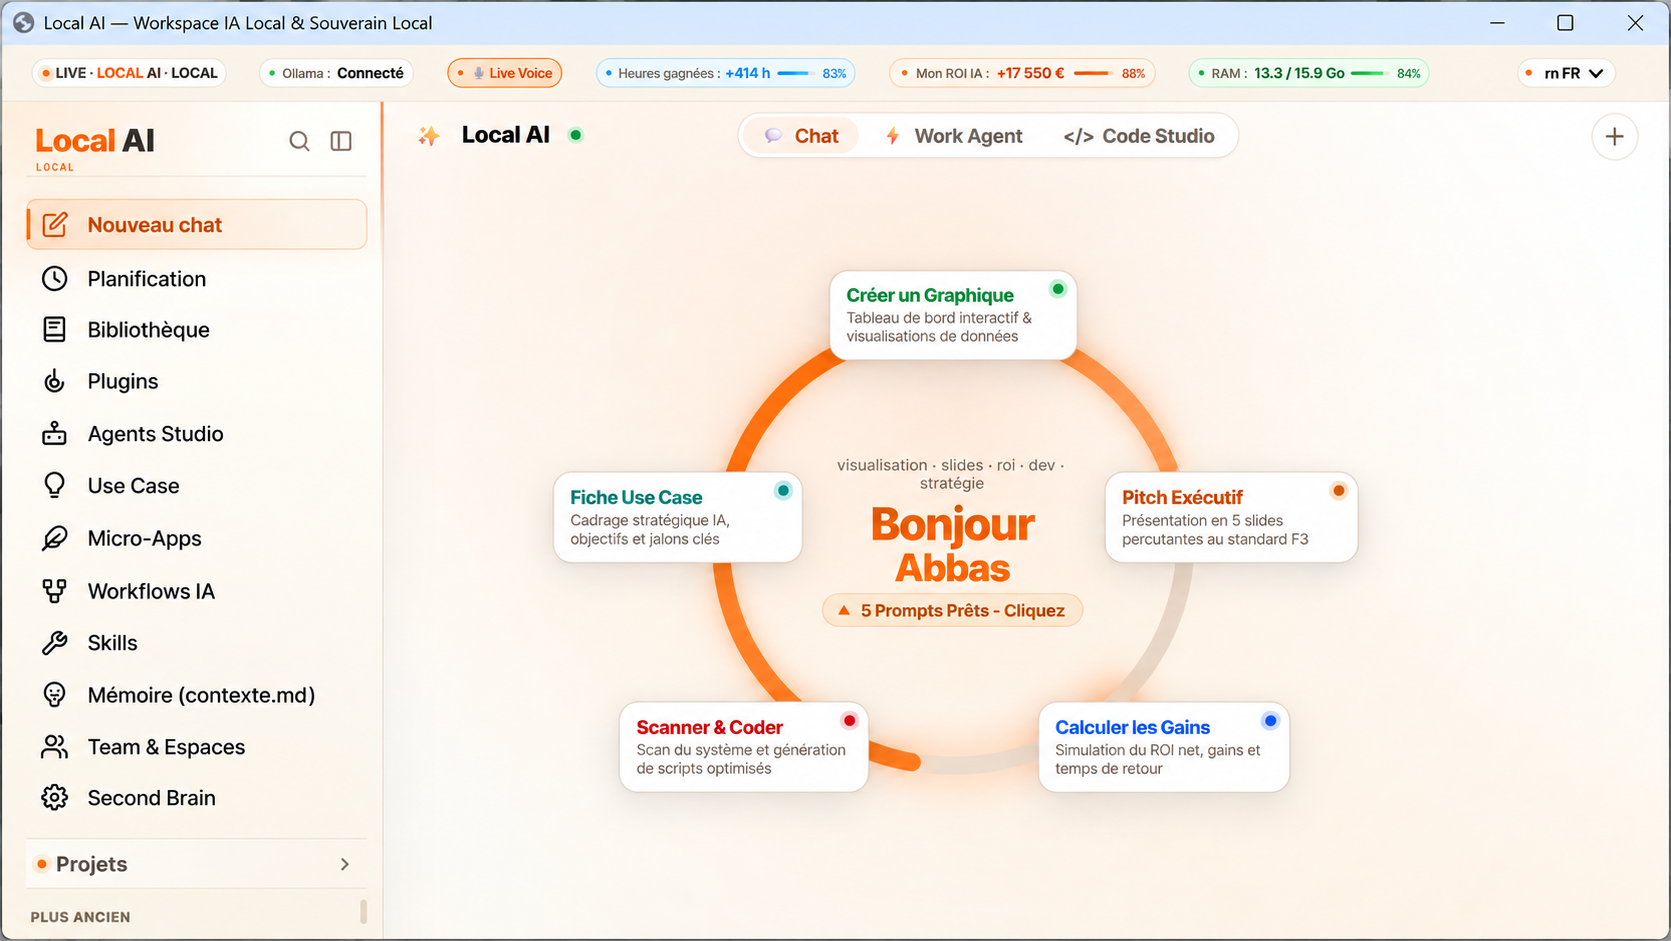
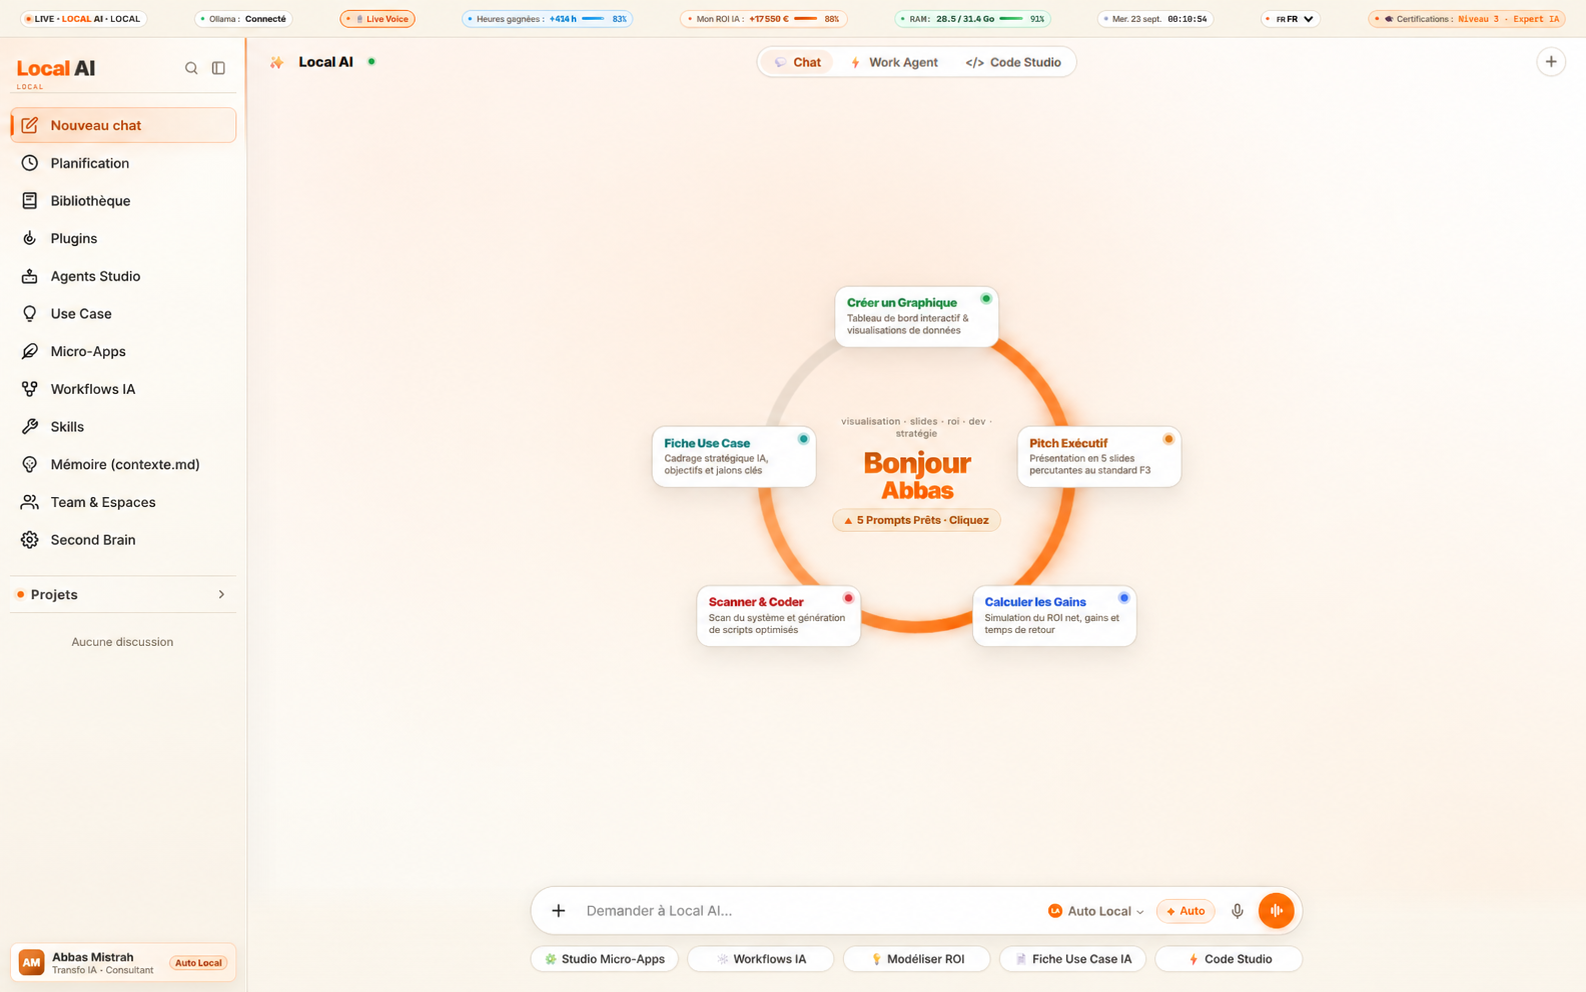
docs: show complete Local AI home composer

diff --git a/README.md b/README.md
@@ -7,7 +7,7 @@
 Local AI turns complex knowledge work into traceable outcomes. Conversations become editable deliverables, business needs become scored use cases, specialist agents become visible executions, and reusable knowledge stays available for the next decision.
 
 <p align="center">
-  <img src="docs/home-local-ai.png" alt="Local AI local-first agentic workspace" width="100%" />
+  <img src="docs/home-local-ai-complete.png" alt="Local AI complete workspace with writing bar" width="100%" />
 </p>
 
 <p align="center">
@@ -53,7 +53,7 @@ flowchart LR
 Choose the job to be done—analyse, create, code, frame or measure—then let Local AI assemble the right working surface.
 
 <p align="center">
-  <img src="docs/home-local-ai.png" alt="Local AI original home with outcome-oriented entry points" width="100%" />
+  <img src="docs/home-local-ai-complete.png" alt="Local AI original home with writing bar and outcome-oriented entry points" width="100%" />
 </p>
 
 ### 2. Turn a conversation into an executive deliverable
